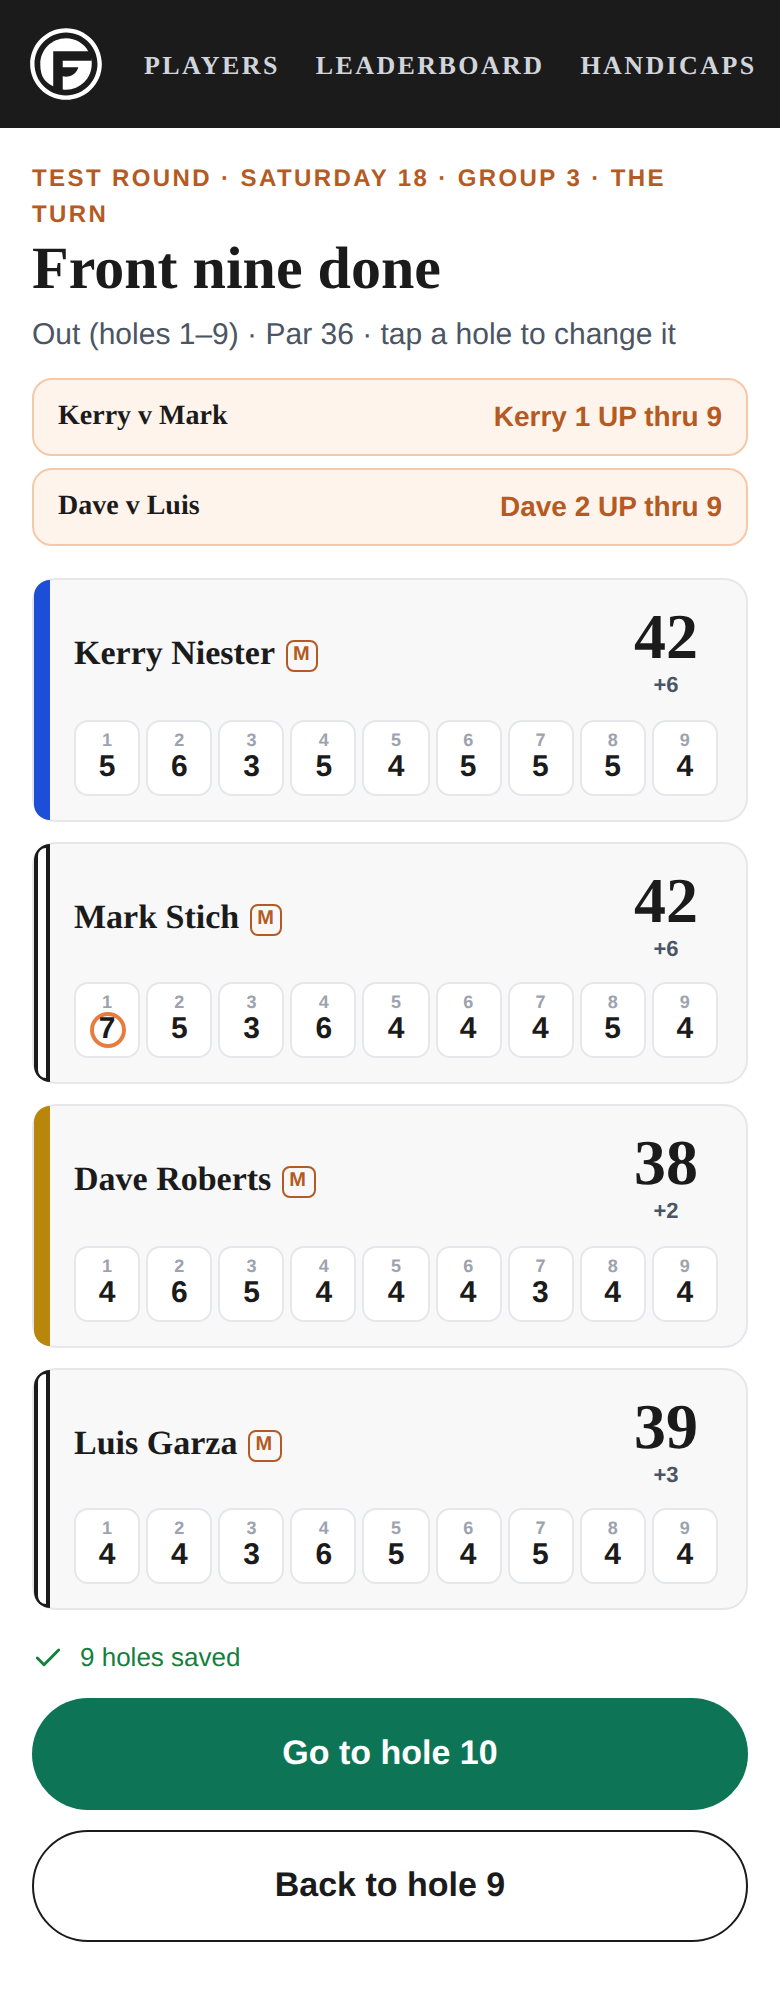
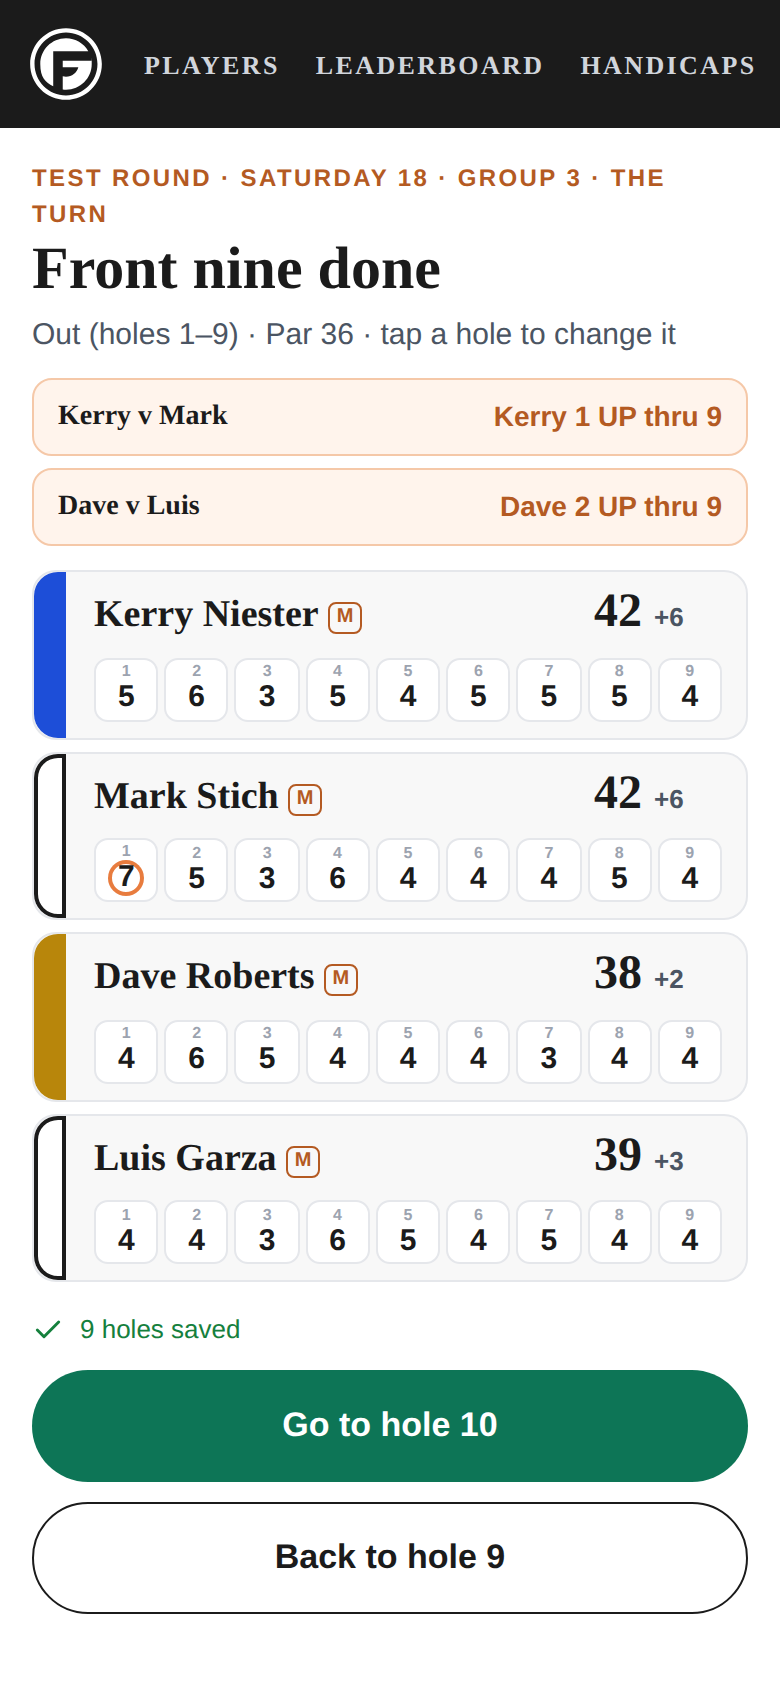
Score entry: wider tee bars, compact turn, cup halves vs regular-season tie rulings (v2.498.3)
Claude-Session: https://claude.ai/code/session_01PeGTnLppc6bpJPrSmUWsVP

diff --git a/transaction-tracker/templates/score_entry.html b/transaction-tracker/templates/score_entry.html
@@ -58,14 +58,14 @@
            edge of his row, from the same legend as the tee sheet. Light
            tees get a dark outline; the women's tee is an outline, as on the
            sheet; no tee on file is neutral grey. */
-        .se-tee { position: absolute; left: 0; top: 0; bottom: 0; width: 8px;
+        .se-tee { position: absolute; left: 0; top: 0; bottom: 0; width: 16px;   /* Kerry 2026-09-26: twice as wide */
                   border-radius: 12px 0 0 12px; }
         .se-tee.ring, .se-tee.light { box-shadow: inset 0 0 0 2px #1B1B1B; }
         .se-tee.ring { background: #FFFFFF !important; }
         .se-tee-dot { display: inline-block; width: 10px; height: 10px; border-radius: 50%;
                       margin-right: 6px; vertical-align: 0; }
         .se-tee-dot.ring, .se-tee-dot.light { box-shadow: inset 0 0 0 2px #1B1B1B; }
-        .se-row { position: relative; padding-left: 20px !important; }
+        .se-row { position: relative; padding-left: 30px !important; }
         .se-row { display: flex; align-items: center; gap: 12px; padding: 12px 14px; border-radius: 12px;
                   background: #F8F8F8; border: 1px solid #E5E7EB; }
         .se-who { flex-grow: 1; min-width: 0; display: flex; flex-direction: column; gap: 3px; }
@@ -211,14 +211,22 @@
         .se-mline.final { background: #F8F8F8; border-color: #E5E7EB; }
         .se-mline.final .st { color: #1B1B1B; }
         /* THE TURN: each player's nine under his name, tap one to edit */
-        .se-mini { display: grid; grid-template-columns: repeat(9, minmax(0, 1fr)); gap: 3px; margin-top: 8px; width: 100%; }
-        .se-mini button { height: 38px; border-radius: 7px; border: 1px solid #E5E7EB; background: #FFFFFF; cursor: pointer;
+        .se-mini { display: grid; grid-template-columns: repeat(9, minmax(0, 1fr)); gap: 3px; margin-top: 6px; width: 100%; }
+        .se-mini button { height: 32px; border-radius: 7px; border: 1px solid #E5E7EB; background: #FFFFFF; cursor: pointer;
                           display: flex; flex-direction: column; align-items: center; justify-content: center; padding: 0;
                           font: 700 15px 'Helvetica Neue', Helvetica, Arial, sans-serif; color: #1B1B1B;
                           font-variant-numeric: tabular-nums; }
-        .se-mini button .n { font-size: 9px; font-weight: 600; color: #9CA3AF; line-height: 1; }
-        .se-turnrow { display: block; padding: 12px 14px 12px 20px; }
-        .se-turnrow .top { display: flex; justify-content: space-between; align-items: center; }
+        .se-mini button .n { font-size: 8px; font-weight: 600; color: #9CA3AF; line-height: 1; }
+        /* THE TURN, compact (Kerry 2026-09-26: "could definitely take up less
+           space. Relationship to par could go to the right of the totals.
+           Names could be a little bigger, but height of each could be less.") */
+        .se-turnrow { display: block; padding: 8px 12px 8px 30px !important; }
+        .se-turnrow .top { display: flex; justify-content: space-between; align-items: baseline; gap: 10px; }
+        .se-turnrow .se-name { font-size: 19px; }
+        .se-turnrow .tt { display: flex; align-items: baseline; gap: 6px; white-space: nowrap; }
+        .se-turnrow .tt .v { font: 700 24px/1 Bitter, Georgia, serif; font-variant-numeric: tabular-nums; }
+        .se-turnrow .tt .r { font-size: 13px; font-weight: 700; color: #4B5563; min-width: 34px; }
+        .se-turnrow + .se-turnrow { margin-top: 0; }
         .se-foot { font-size: 13px; color: #6B7280; text-align: center; margin-top: 10px; white-space: normal; }
         .se-hio { border: 2px solid #E87C3E; }
         .se-note { font-size: 12px; color: #6B7280; margin-top: 10px; white-space: normal; }
@@ -504,7 +512,10 @@
                 const vs = `${esc(m.names[0])} v ${esc(m.names[1])}`;
                 let st;
                 if (!m.thru) st = "Not started";
-                else if (m.lead_side == null) st = m.final ? "Halved" : `All square thru ${m.thru}`;
+                // A tie: the Lone Star Cup halves; regular-season Match Play
+                // settles it by its rulings (pool: may halve; knockout: extra
+                // holes or a putt-off), so the phone says all square, not halved.
+                else if (m.lead_side == null) st = m.final ? (m.tie_rule === "halve" ? "Halved" : `All square after ${m.thru}`) : `All square thru ${m.thru}`;
                 else st = `${esc(m.names[m.lead_side])} ${m.final ? "wins " + esc(m.margin) : esc(m.margin) + " thru " + m.thru}`;
                 return `<div class="se-mline ${m.final ? "final" : ""}"><span class="who">${vs}</span><span class="st">${st}</span></div>`;
             }).join("")}</div>`;
@@ -680,14 +691,14 @@
                 }).join("");
                 return `<div class="se-row se-turnrow">${teeBar(s.cids)}
                     <div class="top"><div class="se-name">${esc(s.name)}${mtag(s.cids)}</div>
-                      <div class="se-score"><div class="v">${t || "–"}</div><div class="r">${d == null ? "" : d === 0 ? "Even" : (d > 0 ? "+" + d : d)}</div></div></div>
+                      <div class="tt"><span class="v">${t || "–"}</span><span class="r">${d == null ? "" : d === 0 ? "E" : (d > 0 ? "+" + d : d)}</span></div></div>
                     <div class="se-mini">${mini}</div></div>`;
             }).join("");
             return `<div class="se-eyebrow">${esc(eyebrow())} · The turn</div>
                 <h1 class="se-h1">${lo === 1 ? "Front" : "Back"} nine done</h1>
                 <div class="se-sub">${label} (holes ${firstNine[0]}–${firstNine[8]}) · Par ${par} · tap a hole to change it</div>
                 ${matchStrip()}
-                <div class="se-gap" style="height:12px"></div><div class="se-stack">${rows}</div>
+                <div class="se-gap" style="height:8px"></div><div class="se-stack" style="gap:6px">${rows}</div>
                 ${statusLine()}
                 <button type="button" class="se-pill go" data-act="turn">Go to hole ${next}</button>
                 <div class="se-gap" style="height:10px"></div>

diff --git a/transaction-tracker/static/js/version.js b/transaction-tracker/static/js/version.js
@@ -1,5 +1,14 @@
-window.TGF_VERSION = "2.498.2";
+window.TGF_VERSION = "2.498.3";
 window.TGF_CHANGELOG = [
+  {
+    version: "2.498.3",
+    date: "2026-09-26",
+    title: "Score entry: wider tee bars, a compact turn, ties by the right rule",
+    changes: [
+      "Kerry, 2026-09-26: 'make the color bands for tees left of names twice as wide' (16 px now). 'The Front nine done could definitely take up less space. Relationship to par could go to the right of the totals. Names could be a little bigger, but height of each could be less.' The turn rows are tighter: bigger name, the total with its to-par beside it, shorter hole boxes.",
+      "Kerry: 'For Lone Star Cup matches will end in HALVED if they're tied. But for regular season Match Play, we have rulings for this.' A tied cup match reads Halved; any other match reads 'All square after N', because the regular-season rulings (game-engine.md, 2026-07-20) settle it: a pool match may halve, a knockout goes to extra holes (NH) or a putt-off."
+    ]
+  },
   {
     version: "2.498.2",
     date: "2026-09-26",

diff --git a/transaction-tracker/email_parser/score_entry.py b/transaction-tracker/email_parser/score_entry.py
@@ -203,7 +203,8 @@ def _match_status(conn, g) -> list:
     matches: dict = {}
     for cid, m in rm.items():
         e = matches.setdefault(m["match_id"], {"format": m["format"], "sides": {},
-                                                "n_holes": m.get("n_holes") or g["holes"]})
+                                                "n_holes": m.get("n_holes") or g["holes"],
+                                                "cup": m.get("session") is not None})
         e["sides"].setdefault(m["side"], []).append(cid)
     course = [dict(h) for h in conn.execute(
         "SELECT hole_number AS hole, par, stroke_index FROM se_round_holes WHERE round_id = ? "
@@ -236,6 +237,10 @@ def _match_status(conn, g) -> list:
                                  course, phs, scores, names, marks)
         w = d.get("gg_winner_idx")
         out.append({"match_id": mid, "format": e["format"], "sides": sides,
+                    # Lone Star Cup: a tie is HALVED. Anything else follows the
+                    # regular-season rulings (game-engine.md, 2026-07-20): pool
+                    # may halve, knockout goes to extra holes (NH) or a putt-off.
+                    "tie_rule": "halve" if e.get("cup") else "rulings",
                     "names": [" & ".join(names.get(c) or "#%s" % c for c in sd) for sd in sides],
                     "lead_side": (w - 1) if w else None, "margin": d.get("gg_margin"),
                     "thru": d.get("thru") or 0,

diff --git a/transaction-tracker/test_score_entry.py b/transaction-tracker/test_score_entry.py
@@ -331,6 +331,7 @@ bd = lsc_board_payload()["sessions"][0]["matches"][0]
 check("the phone's match standing is the cup board's (same engine, same numbers)",
       len(ms) == 1 and ms[0]["margin"] == bd["gg_margin"] and ms[0]["thru"] == bd["thru"]
       and ms[0]["holes"].get("1") == 0 and ms[0]["names"] == ["Kerry", "Adam"], (ms, bd.get("gg_margin")))
+check("a Lone Star Cup match halves a tie", ms[0]["tie_rule"] == "halve", ms[0])
 db.set_app_setting("lsc_matches", "")
 se.write_scores(sg, "sk", 101, [mk("MK8", 102, 1, 5), mk("MK11", 101, 1, 4)])
 check("a round-level match must use players in the round",
@@ -339,6 +340,8 @@ se.set_round_matches(sr, [{"id": "DEMO-1", "format": "singles", "sides": [[102],
 mt = se.get_group_card(sg)["matches"]
 check("a round-level match (the preview's demo) also marks who has a match",
       mt.get("102", {}).get("opponents") == [105] and "101" not in mt, mt)
+check("a regular-season (round-level) match follows the tie rulings, not an automatic halve",
+      se.get_group_card(sg)["match_status"][0]["tie_rule"] == "rulings")
 st = se.round_status(900)
 rs = next(r for r in st["rounds"] if r["round_id"] == sr)
 check("round_status reads holes in, signatures and matches",

diff --git a/transaction-tracker/docs/claude/score-entry.md b/transaction-tracker/docs/claude/score-entry.md
@@ -183,6 +183,14 @@ photo: `GET /api/score-entry/checks/<id>/photo.jpg` (manager+). Guards:
   score** replaces "Back to the holes". Change → Card matches paper →
   Submit again; the edit resolves the flag and the submit re-signs.
 
+**Ties (v2.498.3, Kerry 2026-09-26):** "For Lone Star Cup matches will end
+in HALVED if they're tied. But for regular season Match Play, we have rulings
+for this." `match_status[].tie_rule` is `halve` for a cup session, `rulings`
+otherwise; the phone reads "Halved" vs "All square after N". The rulings
+themselves (pool may halve; knockout → extra holes `NH` with pops continuing,
+or a putt-off) live in game-engine.md and are NOT yet entered from the phone.
+Tee bars are 16 px (Kerry: "twice as wide"); the turn is compact.
+
 ## Live Scoring in the Tracker (v2.497.0)
 
 Kerry, 2026-09-26: "How will I access this thru the Tracker so I can see the
